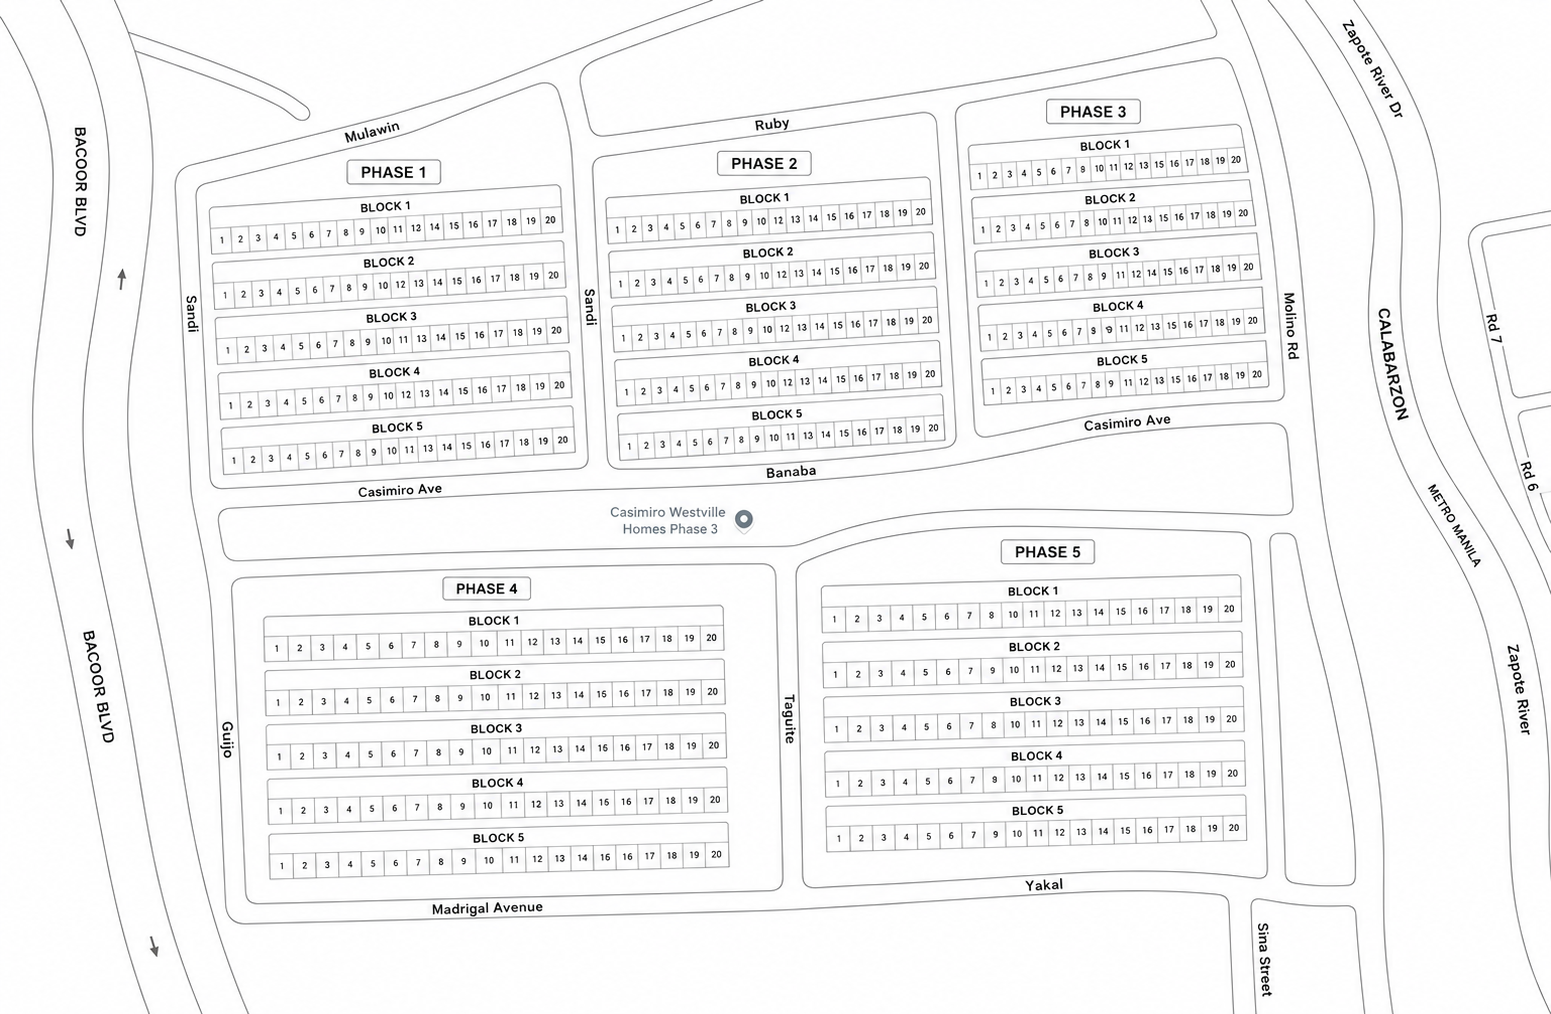
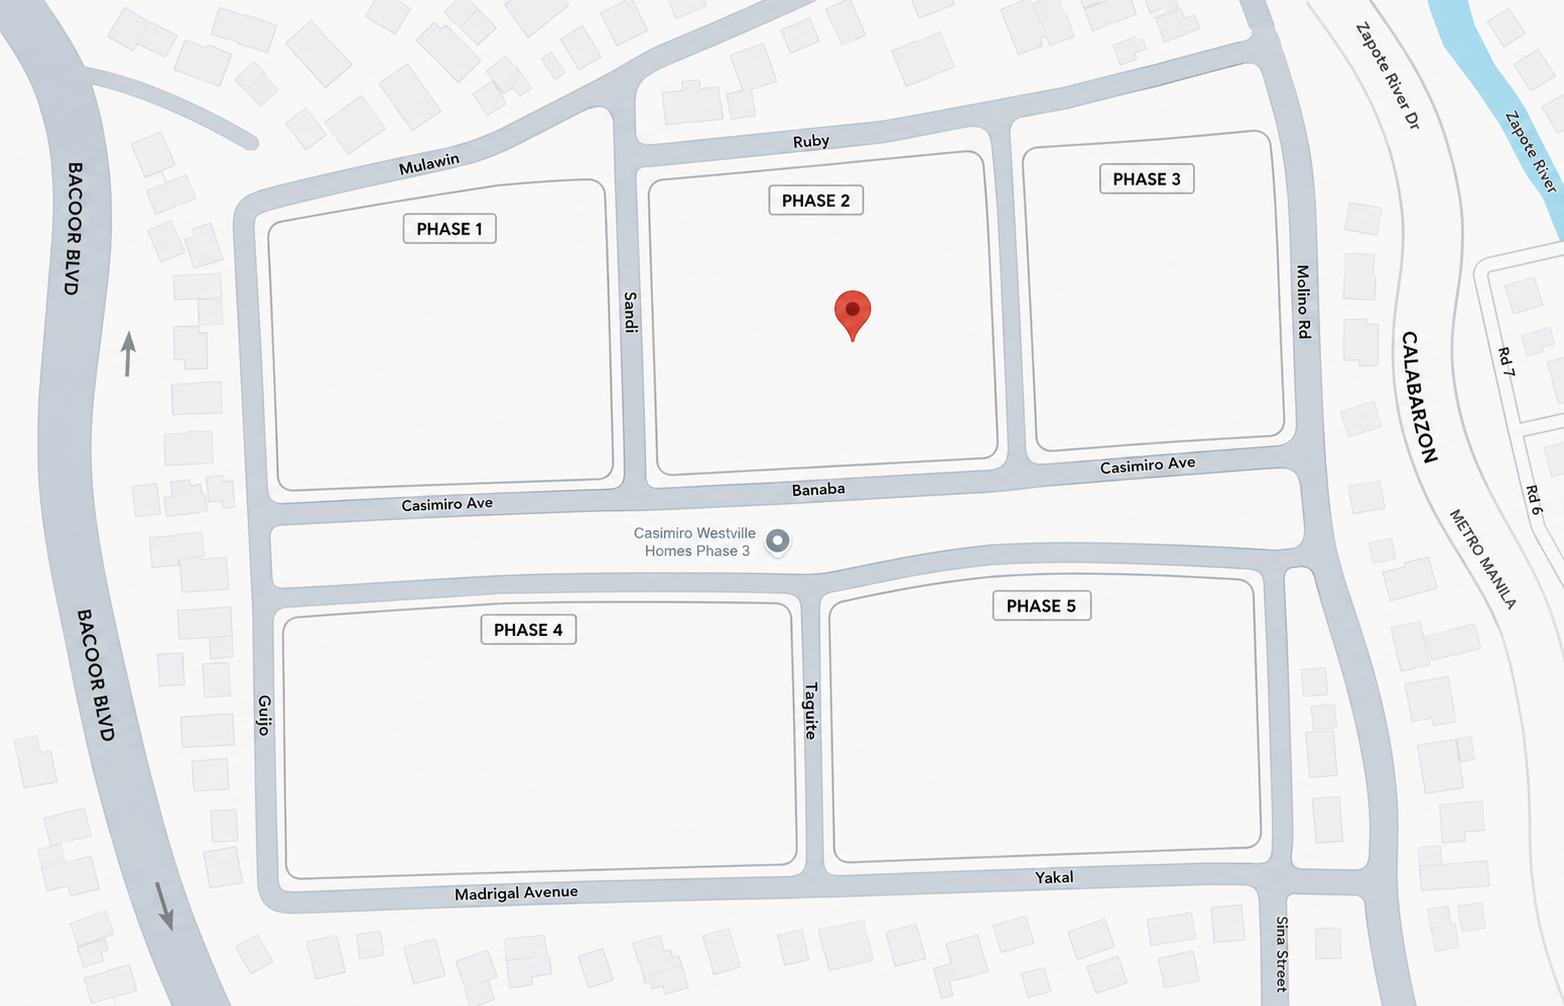
ASD

Changed region(s): [[0.0, 0.0, 1.0, 1.0], [0.9903, 0.9553, 1.0, 1.0]]

diff --git a/web-app/src/pages/PublicLotMap.js b/web-app/src/pages/PublicLotMap.js
@@ -64,17 +64,11 @@ const STATUS_CONFIG = {
 
 const IMAGE_BLOCK_FRAMES = {
 // PHASE 1
-1: { left: 14.00, top: 19.40, width: 22.00, height: 2.45, rotate: -2.50 },
-
-// slightly more tilt left
-2: { left: 14.20, top: 26.25, width: 22.00, height: 2.45, rotate: -3.40 },
-
-// slightly tilt left
-3: { left: 14.40, top: 32.20, width: 22.00, height: 2.45, rotate: -3.15 },
-
-4: { left: 14.40, top: 37.60, width: 22.00, height: 2.45, rotate: -3.40 },
-
-5: { left: 14.50, top: 43.90, width: 22.00, height: 2.45, rotate: -3.10 },
+1: { left: 18.02, top: 39.19, width: 21.18, height: 2.48, rotate: 0 },
+2: { left: 18.31, top: 43.49, width: 21.18, height: 2.48, rotate: 0 },
+3: { left: 18.31, top: 48.03, width: 21.18, height: 2.48, rotate: 0 },
+4: { left: 18.50, top: 52.27, width: 21.18, height: 2.48, rotate: 0 },
+5: { left: 18.57, top: 57.10, width: 21.18, height: 2.48, rotate: 0 },
 
 // PHASE 2
 // Block 1 more left + more tilt left
